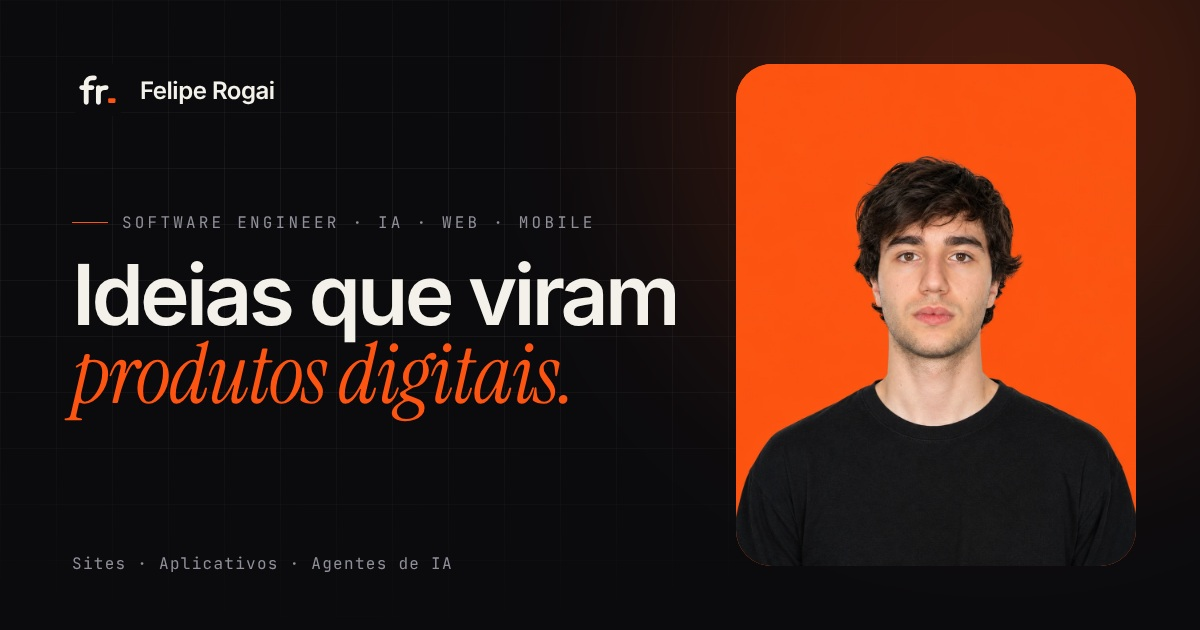
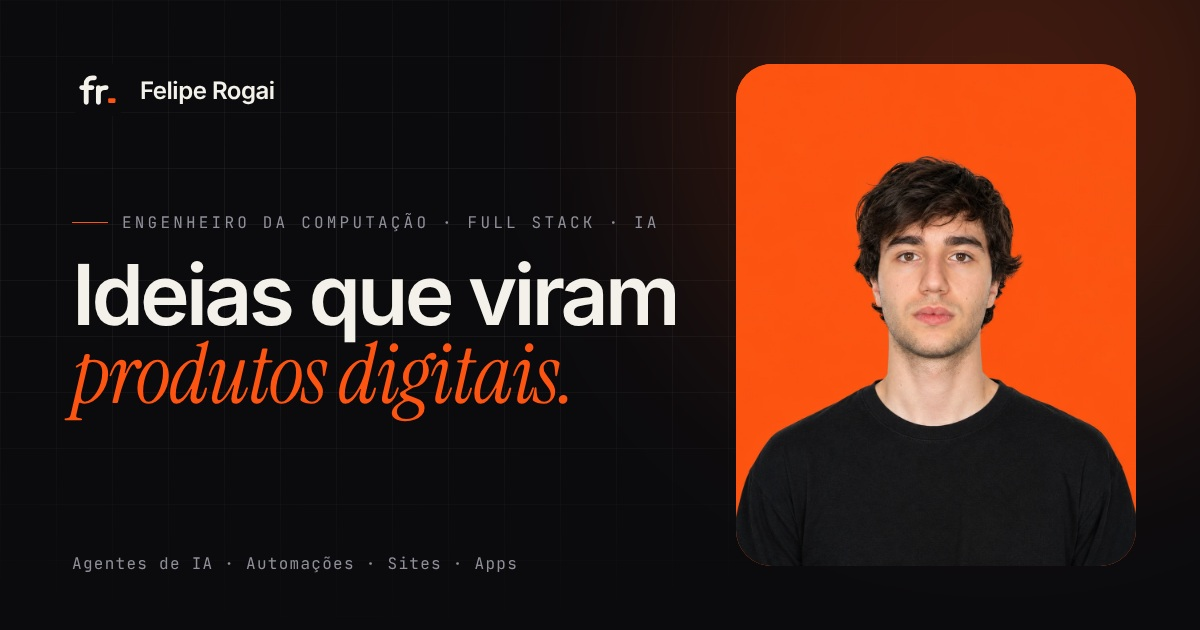
Atualiza perfil: formado em Engenharia da Computação, full stack com foco em IA
- Textos do hero, sobre e cartão de perfil em PT/EN/ES
- IA em primeiro lugar nos serviços e na faixa de tecnologias
- Metadados, manifest, imagem Open Graph e prompt do chat atualizados

Claude-Session: https://claude.ai/code/session_014BzW5QoYDQsPCar2cwVisQ

Changed region(s): [[0.0925, 0.3317, 0.4933, 0.3619], [0.0617, 0.8746, 0.4317, 0.9048], [0.5242, 0.3317, 0.555, 0.3619]]

diff --git a/app/i18n/translations.ts b/app/i18n/translations.ts
@@ -4,8 +4,8 @@
     skills: "Habilidades",
     projects: "Trabalhos",
     contact: "Contato",
-    heroSubtitle: "Sou Felipe Rogai, engenheiro da computação e desenvolvedor full stack. Crio sites, aplicativos e agentes de IA do design ao deploy, com código limpo, performance e foco em resultado.",
-    aboutText1: "Sou estudante de Engenharia da Computação e desenvolvedor full stack com foco em inteligência artificial. Meu trabalho começa entendendo o problema e termina com algo publicado, medido e em evolução.",
+    heroSubtitle: "Sou Felipe Rogai, engenheiro da computação e desenvolvedor full stack com foco em inteligência artificial. Crio agentes de IA, automações, sites e aplicativos do design ao deploy, com código limpo e foco em resultado.",
+    aboutText1: "Sou formado em Engenharia da Computação e atuo como desenvolvedor full stack com foco em inteligência artificial: agentes, automações e integrações com modelos de linguagem. Meu trabalho começa entendendo o problema e termina com algo publicado, medido e em evolução.",
     aboutText2: "Já levei projetos do zero ao ar: sites para empresas de diferentes segmentos, um aplicativo publicado na Google Play e plataformas com agentes de IA integrados. Gosto de unir design cuidadoso, performance e automação inteligente.",
     buggoDescription: "Aplicativo Android publicado na Google Play, projetado e desenvolvido de ponta a ponta: da experiência do usuário à publicação na loja.",
     caspheonDescription: "Presença digital com layout moderno e responsivo, construída para transmitir credibilidade e ter bom desempenho nas buscas.",
@@ -34,8 +34,8 @@
     enterYourMessage: "Digite sua mensagem",
     sending: "Enviando...",
     somethingWentWrong: "Algo deu errado. Tente novamente.",
-    aiDevelopmentIntern: "Desenvolvedor Full Stack e de Agentes de IA",
-    computerEngineeringStudent: "Estudante de Engenharia da Computação",
+    roleTitle: "Desenvolvedor Full Stack com foco em IA",
+    degree: "Engenheiro da Computação",
     termsOfServiceTitle: "Termos de Serviço",
     termsOfServiceSubtitle: "Por favor, leia estes termos e condições cuidadosamente antes de usar este site de portfólio.",
     acceptanceOfTerms: "1. Aceitação dos Termos",
@@ -93,8 +93,8 @@
     heroTitleEmphasis: "produtos digitais",
     heroTitleB: "que funcionam.",
     heroCardLabel: "Foco atual",
-    heroCardValue: "IA · Web · Mobile",
-    heroBadge: "Software Engineer • IA • Web • Mobile • ",
+    heroCardValue: "IA · Agentes · Full Stack",
+    heroBadge: "Software Engineer • IA • Full Stack • ",
     statProjects: "Projetos entregues",
     statSites: "Sites no ar",
     statApps: "App na Google Play",
@@ -153,8 +153,8 @@
     skills: "Habilidades",
     projects: "Trabajos",
     contact: "Contacto",
-    heroSubtitle: "Soy Felipe Rogai, ingeniero en computación y desarrollador full stack. Creo sitios web, aplicaciones y agentes de IA del diseño al deploy, con código limpio, rendimiento y enfoque en resultados.",
-    aboutText1: "Soy estudiante de Ingeniería en Computación y desarrollador full stack enfocado en inteligencia artificial. Mi trabajo empieza entendiendo el problema y termina con algo publicado, medido y en evolución.",
+    heroSubtitle: "Soy Felipe Rogai, ingeniero en computación y desarrollador full stack enfocado en inteligencia artificial. Creo agentes de IA, automatizaciones, sitios y aplicaciones del diseño al deploy, con código limpio y enfoque en resultados.",
+    aboutText1: "Soy graduado en Ingeniería en Computación y trabajo como desarrollador full stack enfocado en inteligencia artificial: agentes, automatizaciones e integraciones con modelos de lenguaje. Mi trabajo empieza entendiendo el problema y termina con algo publicado, medido y en evolución.",
     aboutText2: "He llevado proyectos de cero a producción: sitios para empresas de distintos sectores, una aplicación publicada en Google Play y plataformas con agentes de IA integrados. Me gusta unir diseño cuidadoso, rendimiento y automatización inteligente.",
     buggoDescription: "Aplicación Android publicada en Google Play, diseñada y desarrollada de punta a punta: de la experiencia de usuario a la publicación en la tienda.",
     caspheonDescription: "Presencia digital con diseño moderno y responsivo, construida para transmitir credibilidad y posicionar bien en buscadores.",
@@ -183,8 +183,8 @@
     enterYourMessage: "Ingresa tu mensaje",
     sending: "Enviando...",
     somethingWentWrong: "Algo salió mal. Inténtalo de nuevo.",
-    aiDevelopmentIntern: "Desarrollador Full Stack y Agentes de IA",
-    computerEngineeringStudent: "Estudiante de Ingeniería en Computación",
+    roleTitle: "Desarrollador Full Stack enfocado en IA",
+    degree: "Ingeniero en Computación",
     termsOfServiceTitle: "Términos de Servicio",
     termsOfServiceSubtitle: "Por favor, lee estos términos y condiciones cuidadosamente antes de usar este sitio de portafolio.",
     acceptanceOfTerms: "1. Aceptación de los Términos",
@@ -242,8 +242,8 @@
     heroTitleEmphasis: "productos digitales",
     heroTitleB: "que funcionan.",
     heroCardLabel: "Enfoque actual",
-    heroCardValue: "IA · Web · Mobile",
-    heroBadge: "Software Engineer • IA • Web • Mobile • ",
+    heroCardValue: "IA · Agentes · Full Stack",
+    heroBadge: "Software Engineer • IA • Full Stack • ",
     statProjects: "Proyectos entregados",
     statSites: "Sitios en línea",
     statApps: "App en Google Play",
@@ -302,8 +302,8 @@
     skills: "Skills",
     projects: "Work",
     contact: "Contact",
-    heroSubtitle: "I'm Felipe Rogai, a computer engineer and full stack developer. I build websites, apps and AI agents from design to deploy, with clean code, performance and a focus on results.",
-    aboutText1: "I'm a Computer Engineering student and full stack developer focused on artificial intelligence. My work starts by understanding the problem and ends with something shipped, measured and evolving.",
+    heroSubtitle: "I'm Felipe Rogai, a computer engineer and full stack developer focused on artificial intelligence. I build AI agents, automations, websites and apps from design to deploy, with clean code and a focus on results.",
+    aboutText1: "I hold a degree in Computer Engineering and work as a full stack developer focused on artificial intelligence: agents, automations and integrations with language models. My work starts by understanding the problem and ends with something shipped, measured and evolving.",
     aboutText2: "I've taken projects from zero to launch: websites for companies across different industries, an app published on Google Play and platforms with integrated AI agents. I love combining careful design, performance and smart automation.",
     buggoDescription: "Android app published on Google Play, designed and built end to end: from user experience to store release.",
     caspheonDescription: "Digital presence with a modern, responsive layout, built to convey credibility and perform well in search.",
@@ -332,8 +332,8 @@
     enterYourMessage: "Enter your message",
     sending: "Sending...",
     somethingWentWrong: "Something went wrong. Please try again.",
-    aiDevelopmentIntern: "Full Stack & AI Agent Developer",
-    computerEngineeringStudent: "Computer Engineering Student",
+    roleTitle: "Full Stack Developer focused on AI",
+    degree: "Computer Engineer",
     termsOfServiceTitle: "Terms of Service",
     termsOfServiceSubtitle: "Please read these terms and conditions carefully before using this portfolio site.",
     acceptanceOfTerms: "1. Acceptance of Terms",
@@ -391,8 +391,8 @@
     heroTitleEmphasis: "digital products",
     heroTitleB: "that work.",
     heroCardLabel: "Current focus",
-    heroCardValue: "AI · Web · Mobile",
-    heroBadge: "Software Engineer • AI • Web • Mobile • ",
+    heroCardValue: "AI · Agents · Full Stack",
+    heroBadge: "Software Engineer • AI • Full Stack • ",
     statProjects: "Projects delivered",
     statSites: "Websites live",
     statApps: "App on Google Play",

diff --git a/app/page.tsx b/app/page.tsx
@@ -40,8 +40,8 @@ function About() {
             <SectionHeading index="01" label={t("about")} title={t("aboutHeading")} emphasis={t("aboutHeadingEmphasis")} />
             <Reveal delay={100} className="mt-10 rounded-3xl border border-border bg-card p-6">
               <p className="font-mono text-[10px] uppercase tracking-widest text-muted-foreground">{t("nowLabel")}</p>
-              <p className="mt-3 text-lg font-semibold">{t("aiDevelopmentIntern")}</p>
-              <p className="mt-1 text-sm text-muted-foreground">{t("computerEngineeringStudent")}</p>
+              <p className="mt-3 text-lg font-semibold">{t("roleTitle")}</p>
+              <p className="mt-1 text-sm text-muted-foreground">{t("degree")}</p>
             </Reveal>
           </div>
         </div>
@@ -77,9 +77,9 @@ function About() {
 function Services() {
   const { t } = useLanguageContext()
   const services = [
+    { icon: Bot, title: "service3Title", text: "service3Text" },
     { icon: Globe, title: "service1Title", text: "service1Text" },
     { icon: Smartphone, title: "service2Title", text: "service2Text" },
-    { icon: Bot, title: "service3Title", text: "service3Text" },
     { icon: Layers, title: "service4Title", text: "service4Text" },
   ] as const
 

diff --git a/app/layout.tsx b/app/layout.tsx
@@ -9,9 +9,9 @@ import "./globals.css"
 import type React from "react"
 import ChatWidget from "./components/chat-widget"
 
-const title = "Felipe Rogai — Engenheiro de Software, IA & Web"
+const title = "Felipe Rogai — Engenheiro da Computação · Full Stack & IA"
 const description =
-  "Engenheiro da computação e desenvolvedor full stack. Crio sites, aplicativos e agentes de IA do design ao deploy."
+  "Engenheiro da computação e desenvolvedor full stack com foco em IA. Crio agentes de IA, automações, sites e aplicativos do design ao deploy."
 
 export const metadata: Metadata = {
   metadataBase: new URL(
@@ -19,7 +19,7 @@ export const metadata: Metadata = {
   ),
   title,
   description,
-  keywords: ["Felipe Rogai", "Desenvolvedor Full Stack", "Engenheiro de Software", "Agentes de IA", "Next.js", "React", "Python", "Portfólio"],
+  keywords: ["Felipe Rogai", "Desenvolvedor Full Stack", "Engenheiro de Software", "Agentes de IA", "Inteligência Artificial", "Engenheiro da Computação", "Next.js", "React", "Python", "Portfólio"],
   authors: [{ name: "Felipe Rogai" }],
   creator: "Felipe Rogai",
   manifest: "/manifest.json",

diff --git a/app/components/hero.tsx b/app/components/hero.tsx
@@ -12,7 +12,7 @@ const socials = [
 ]
 
 const marquee = [
-  "Next.js", "React", "TypeScript", "Python", "Node.js", "AI Agents", "LangChain", "OpenAI API",
+  "AI Agents", "LangChain", "OpenAI API", "Python", "Next.js", "React", "TypeScript", "Node.js",
   "PostgreSQL", "FastAPI", "Tailwind CSS", "AWS", "Docker", "Mobile", "SEO",
 ]
 

diff --git a/prompts/system-prompt.md b/prompts/system-prompt.md
@@ -8,10 +8,10 @@ Behavior rules:
 - Do not invent credentials or experience that are not listed here.
 
 Known facts about Felipe Rogai:
-- Background: Computer Engineering professional with solid experience developing AI-based solutions that automate business processes, improve operational efficiency, and drive innovation.
+- Background: Graduated in Computer Engineering, with solid experience developing AI-based solutions that automate business processes, improve operational efficiency, and drive innovation.
 - Focus: Designs intelligent agents and scalable architectures for automation, workflow analysis, and resource optimization.
 - Skills/stack: Python, React, Node.js, AI/ML, PostgreSQL, AWS, TypeScript, Tailwind, Next.js.
-- Roles/labels: Full Stack & AI Agent Developer; Computer Engineering student.
+- Roles/labels: Full Stack Developer focused on AI (AI agents, automation, LLM integrations); graduated Computer Engineer.
 - Projects (examples): AI business process automation; OnSmart.AI platform (React, Excel CMS, YouTube API, Formspree, chat + AI agent); Interactive Pokedex (HTML/CSS/JS + PokeAPI).
 - Final-year (TCC) project: Buggo, a mobile app published on Google Play (https://play.google.com/store/apps/details?id=com.buggo.app).
 - Freelance websites: caspheon.com, nooncafelounge.com.br, cedromadeiras.com.br, h4digital.com.br, vfelevadores.com.br, topcalcadosdistribuidora.com.br.
